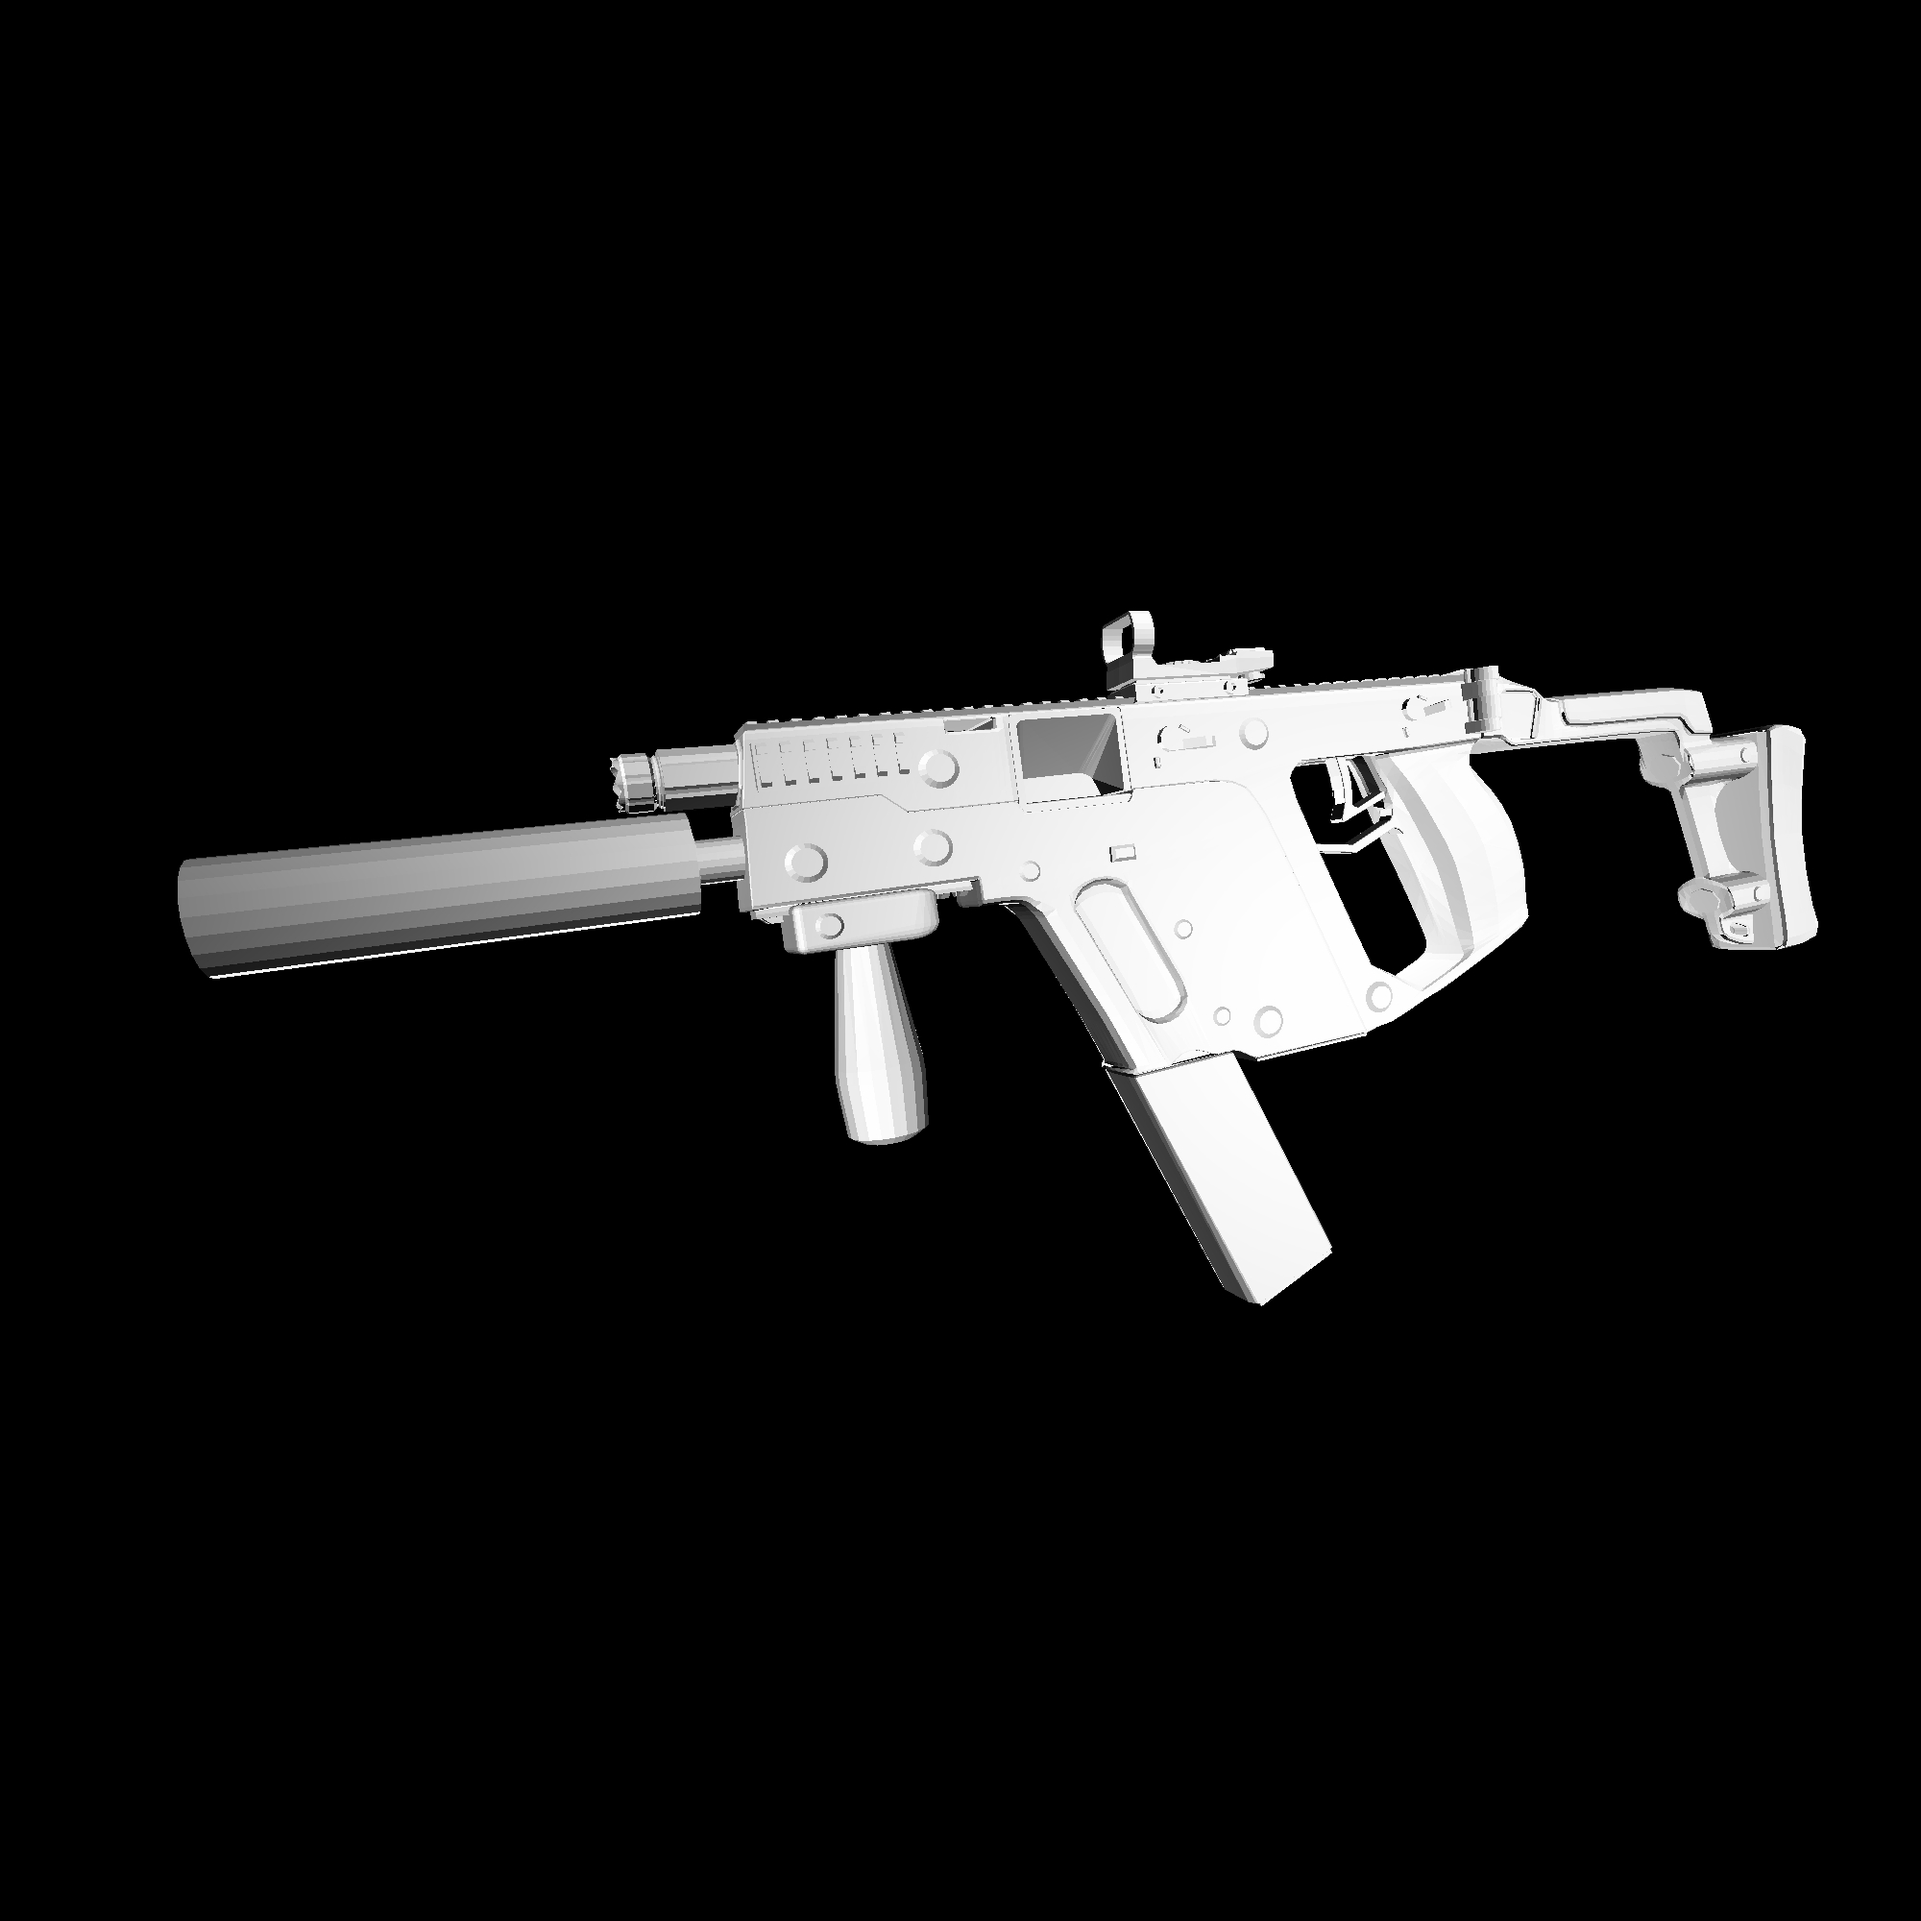
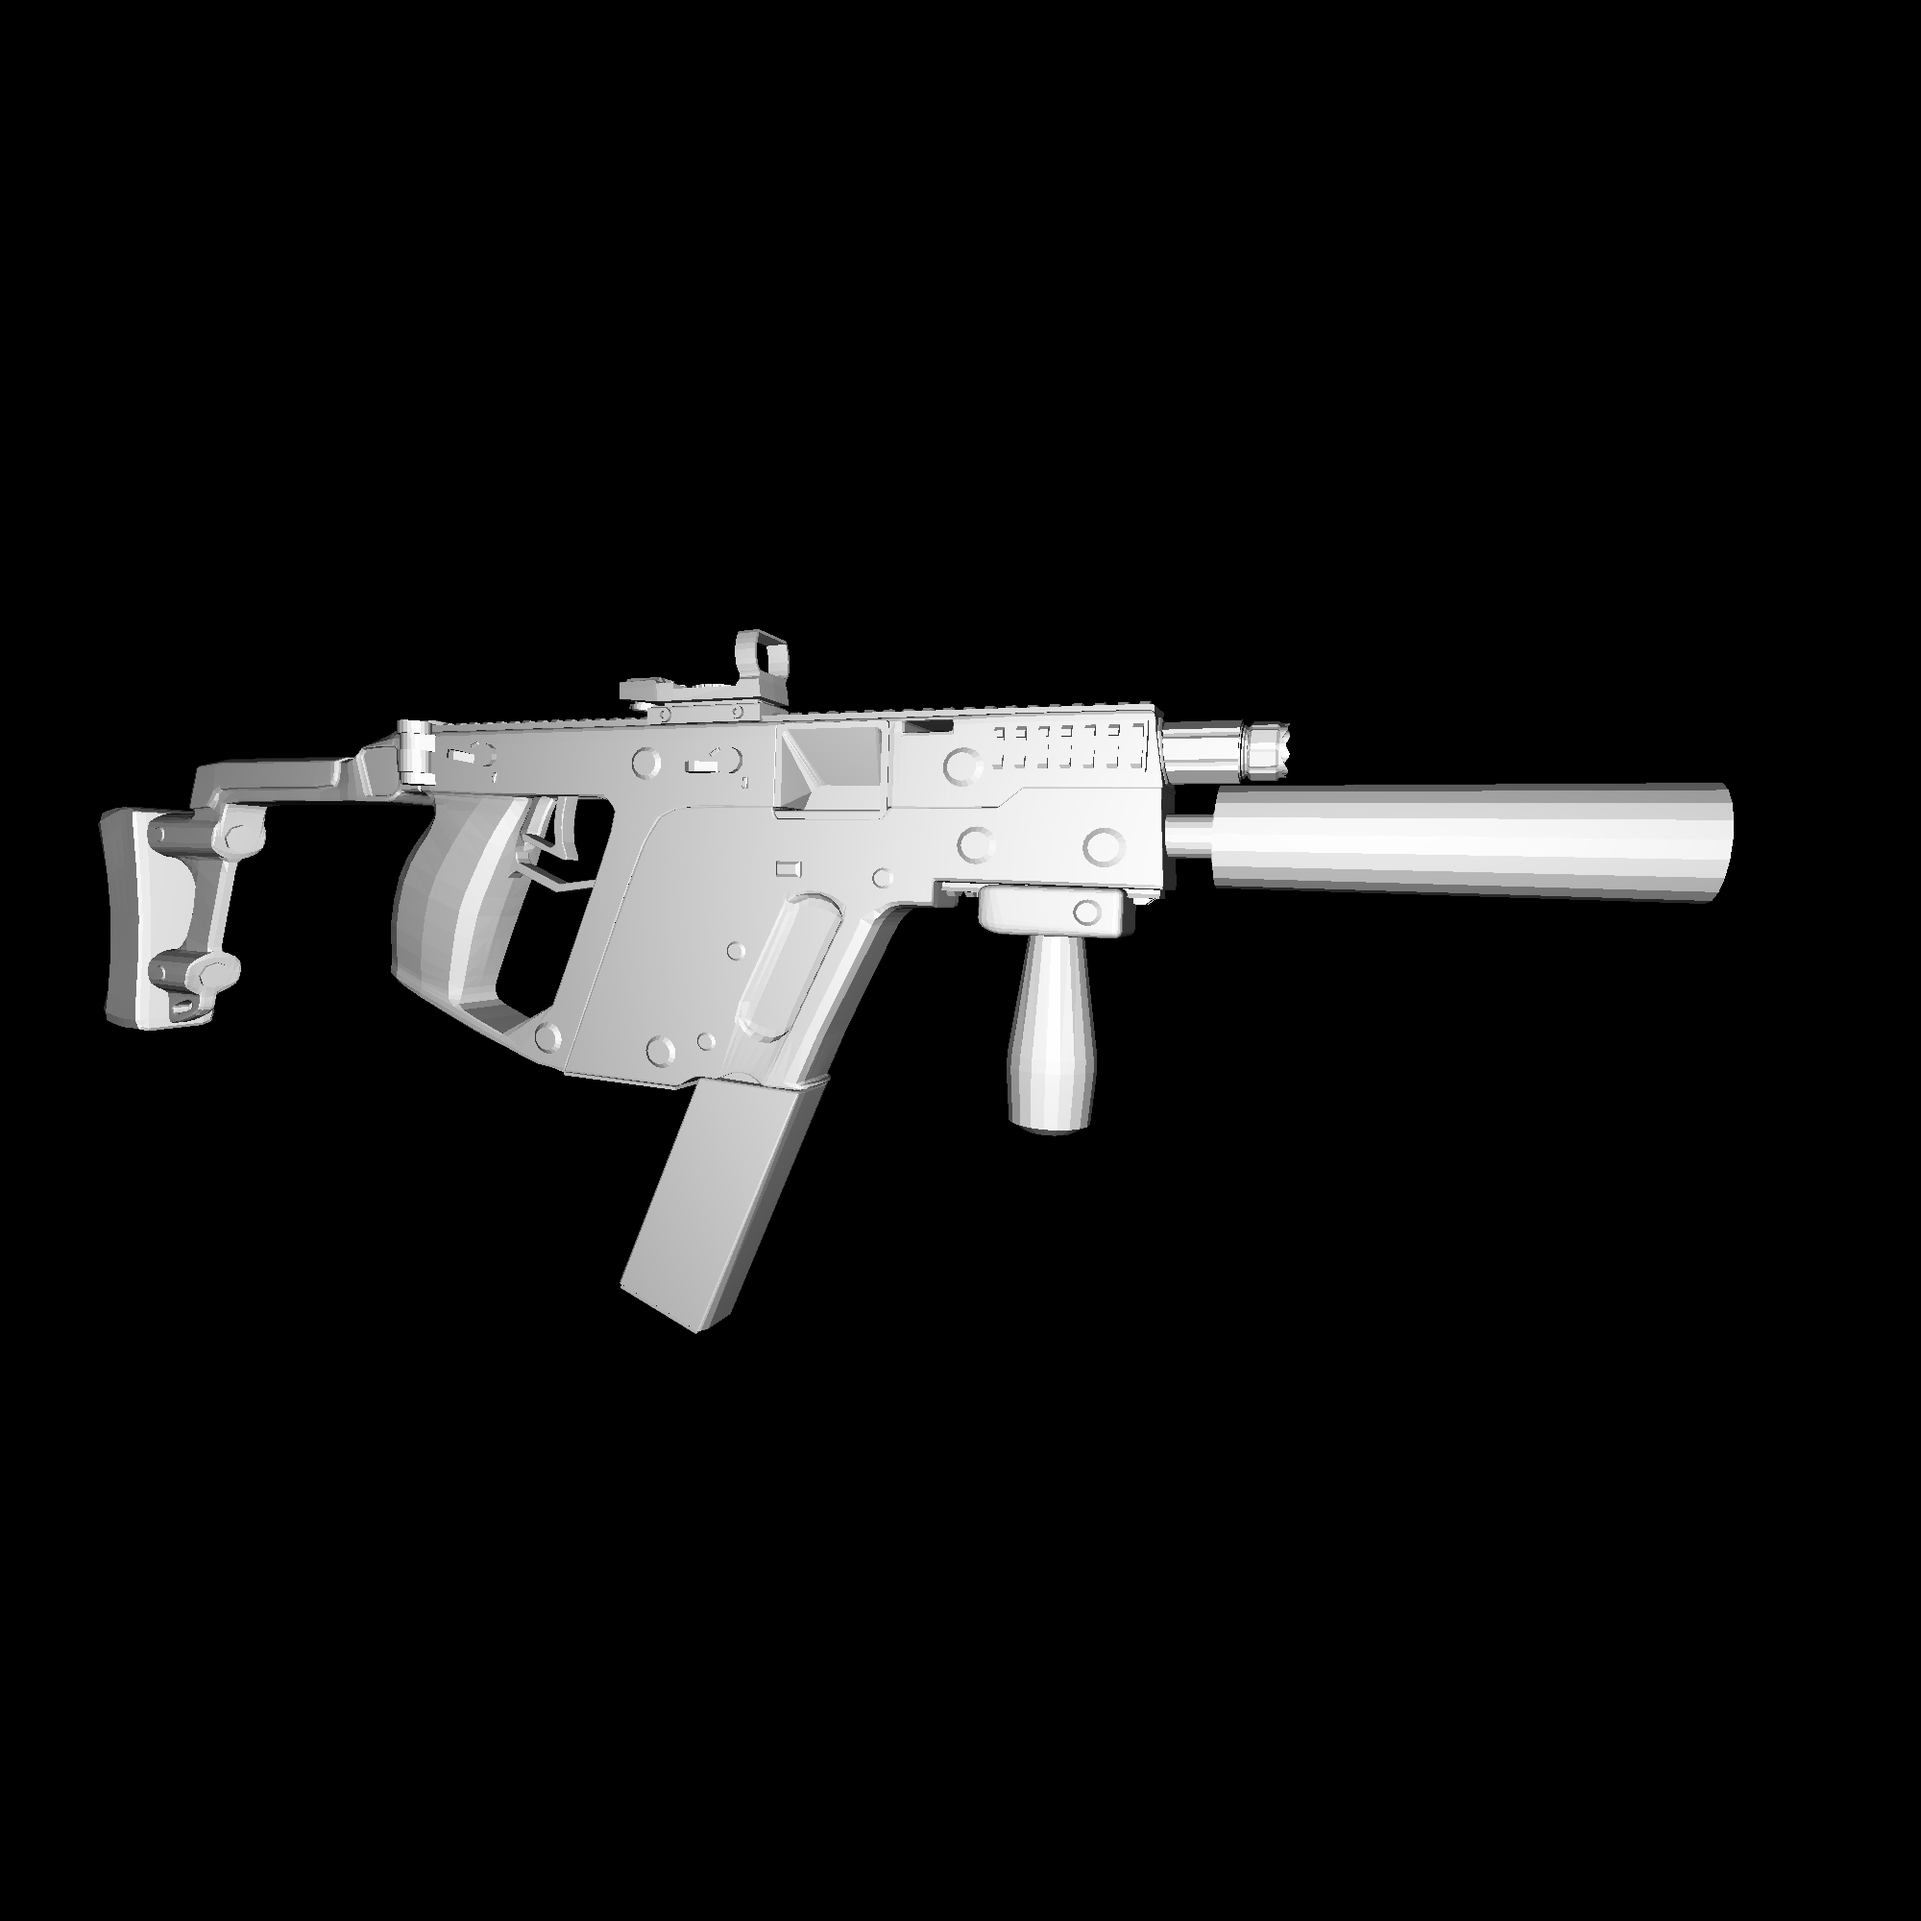
Cleanup and added correct color interpolation

Changed region(s): [[0.031, 0.31, 0.961, 0.713]]

diff --git a/src/rasterizer.c b/src/rasterizer.c
@@ -4,8 +4,10 @@
 
 #include <math.h>
 #include <memory.h>
-#include <limits.h>
 #include "include/rasterizer.h"
+
+#define NEAR_CLIPPING 1
+#define FAR_CLIPPING 10000
 
 /**
  * This functions translates a camera coordinate to raster space.
@@ -34,9 +36,9 @@ static Vector3 cameraToRaster(Vector3* v, unsigned int w, unsigned int h){
  * This functions calculates the shade value of a point based on the angle of the triangle in relation to the camera
  * (using the cross product) and uses bary centric coordinates to get an interpolated color inside the triangle its self.
  *
- * @param z Z component of the pixel
- * @param c Camera positions of the triangle which is used to interpolate the correct value of the shade
- * @param a Area of all the triangle edges
+ * @param z Barycentric z component of the pixel
+ * @param c Triangle in camera space
+ * @param a Barycentric area of each triangle point
  * @return Returns a char which represents the shaded value.
  */
 static unsigned char getPixelShade(float z, Vector3 c[3], const float a[3]) {
@@ -60,25 +62,24 @@ static unsigned char getPixelShade(float z, Vector3 c[3], const float a[3]) {
 }
 
 /**
- * Rasterize a single triangle based and record it
- * into the raster image buffer
+ * Rasterize a single triangle and draw into the frameBuffer
  *
  * @param c Triangle in camera space
  * @param r Triangle in raster space
- * @param zBuffer Pointer to buffer which is used to store depth information of triangles
- * @param rasterWidth Width of the raster image
- * @param rasterHeight Height of the raster image
- * @param rasterImage Raster output image
+ * @param zBuffer Pointer to buffer which stores depth information of triangles
+ * @param frameBuffer Pointer to buffer which stores the raster image
+ * @param width Width of the image in pixels
+ * @param height Height of the image in pixels
  */
 static void rasterizeTriangle(
         Vector3 c[3],
         Vector3 r[3],
         float* zBuffer,
-        unsigned int rasterWidth,
-        unsigned int rasterHeight,
-        unsigned char* rasterImage) {
-    unsigned int w = rasterWidth - 1;
-    unsigned int h = rasterHeight - 1;
+        unsigned char* frameBuffer,
+        unsigned int width,
+        unsigned int height) {
+    unsigned int w = width - 1;
+    unsigned int h = height - 1;
 
     // Calculate triangle bounding box (based on triangle in raster space)
     float rMaxY = MAX3(r[0].y, r[1].y, r[2].y);
@@ -119,7 +120,7 @@ static void rasterizeTriangle(
              *
              * If it does not fall inside of the we continue looping through the box.
              */
-            if (a[0] >= 0 || a[1] >= 0 || a[2] >= 0)
+            if (a[0] < 0 || a[1] < 0 || a[2] < 0)
                 continue;
 
             // Interpolate bary centric coordinate area
@@ -135,11 +136,11 @@ static void rasterizeTriangle(
              * Otherwise if the z component is overlapping the old value we store the new z component and compute the screen pixel
              */
             float z = 1 / (r[0].z * a[0] + r[1].z * a[1] + r[2].z * a[2]);
-            if (z < zBuffer[y * rasterWidth + x])
+            if (z >= zBuffer[y * width + x])
                 continue;
 
-            zBuffer[y * rasterWidth + x] = z;
-            rasterImage[y * rasterWidth + x] = getPixelShade(z, c, a);
+            zBuffer[y * width + x] = z;
+            frameBuffer[y * width + x] = getPixelShade(z, c, a);
         }
     }
 }
@@ -147,30 +148,30 @@ static void rasterizeTriangle(
 void rasterize(
         const Vector3* vertices,
         const unsigned int* indices,
-        unsigned int numIndices,
-        const Matrix4x4* transform,
+        unsigned int indicesCount,
+        const Matrix4x4* modelViewProjection,
         float* zBuffer,
-        unsigned int rasterWidth,
-        unsigned int rasterHeight,
-        unsigned char* rasterImage) {
+        unsigned char* frameBuffer,
+        unsigned int width,
+        unsigned int height) {
 
-    unsigned int size = rasterWidth * rasterHeight;
-    memset(rasterImage, 0, size * sizeof(unsigned char));
-    memset(zBuffer, CHAR_MAX, size * sizeof(float));
+    unsigned int size = width * height;
+    memset(frameBuffer, 0, size * sizeof(unsigned char));
+    for (int i = 0; i < size; ++i) { zBuffer[i] = FAR_CLIPPING; }
 
-    for (int i = 0; i < numIndices; i+=3) {
+    for (int i = 0; i < indicesCount; i+=3) {
         Vector3 c[3] = {
-            transformVec3(vertices + (indices[i]-1), transform),
-            transformVec3(vertices + (indices[i+1]-1), transform),
-            transformVec3(vertices + (indices[i+2]-1), transform)
+            transformVec3(vertices + (indices[i]-1), modelViewProjection),
+            transformVec3(vertices + (indices[i+1]-1), modelViewProjection),
+            transformVec3(vertices + (indices[i+2]-1), modelViewProjection)
         };
 
         Vector3 r[3] = {
-            cameraToRaster(&c[0], rasterWidth, rasterHeight),
-            cameraToRaster(&c[1], rasterWidth, rasterHeight),
-            cameraToRaster(&c[2], rasterWidth, rasterHeight)
+            cameraToRaster(&c[0], width, height),
+            cameraToRaster(&c[1], width, height),
+            cameraToRaster(&c[2], width, height)
         };
 
-        rasterizeTriangle(c, r, zBuffer, rasterWidth, rasterHeight, rasterImage);
+        rasterizeTriangle(c, r, zBuffer, frameBuffer, width, height);
     }
 }

diff --git a/src/include/rasterizer.h b/src/include/rasterizer.h
@@ -7,33 +7,54 @@
 
 #include "utils.h"
 
-/*
- * The nearest value for clipping the view frustum
- */
-#ifndef NEAR_CLIPPING
-    #define NEAR_CLIPPING 1
-#endif
-
 /**
- * Rasterize a list of triangles into a raster image buffer
- * based on the defined width and height
+ * Rasterize a list of triangles to a grayscale image
+ *
+ * This functions makes use of the bounding box algorithm which is optimized
+ * for rasterisation on a GPU, therefore it does not preform (on the CPU).
+ *
+ * To gain a quick overview of the algorithm a pseudo implementation has been defined
+ *
+ * @pseudoCode:
+ *   FOR every triangle in Object
+ *      t ← Call: project triangle to screen space
+
+ *      IF t out of screen bounds
+ *         THEN continue
+ *      ENDIF
+
+ *      TriangleBounds ← Call: Compute t pixel bounds
+ *      FOR every pixel as p in TriangleBounds
+ *         IF p is out of t bounds
+ *            THEN continue
+ *         ENDIF
+
+ *         IF p of t is covered
+ *            THEN continue
+ *         ENDIF
+
+ *         Call: Draw p to screen location
+ *         Call: Store new p depth
+ *     ENDFOR
+ *   ENDFOR
  *
  * @param vertices Vertices to rasterize
  * @param indices Indices which indicate the triangle positions
- * @param numIndices Number of indices
- * @param zBuffer Pointer to buffer which is used to store depth information of triangles
- * @param rasterWidth Width of the raster image
- * @param rasterHeight Height of the raster image
- * @param rasterImage Raster output image
+ * @param indicesCount Count of indices which is contained in the indices array
+ * @param modelViewProjection Matrix which stores the transformation for each vertex in the scene
+ * @param zBuffer Pointer to buffer which stores depth information of triangles
+ * @param frameBuffer Pointer to buffer which stores the raster image
+ * @param width Width of the image in pixels
+ * @param height Height of the image in pixels
  */
 void rasterize(
         const Vector3* vertices,
         const unsigned int* indices,
-        unsigned int numIndices,
-        const Matrix4x4* transform,
+        unsigned int indicesCount,
+        const Matrix4x4* modelViewProjection,
         float* zBuffer,
-        unsigned int rasterWidth,
-        unsigned int rasterHeight,
-        unsigned char* rasterImage);
+        unsigned char* frameBuffer,
+        unsigned int width,
+        unsigned int height);
 
 #endif //RASTERIZER_RASTERIZER_H

diff --git a/main.c b/main.c
@@ -67,16 +67,16 @@ int main() {
     // Allocate raster image on heap
     unsigned char* rasterImage = malloc(width * height * sizeof(unsigned char));
 
-    float angle = 0.4f;
-    Matrix4x4 transform = {
+    float angle = 0;
+    Matrix4x4 modelViewProjection = {
         { cosf(angle), 0, sinf(angle), 0 },
         { 0, 1, 0, 0 },
         { -sinf(angle), 0, cosf(angle), 0 },
-        { 0, 0, 10, 1 }
+        { 0, 0, 0, 1 }
     };
 
     // Rasterize triangles
-    rasterize((Vector3*)obj_data.p_positions, indices, obj_data.face_count * 3, &transform, zBuffer, width, height, rasterImage);
+    rasterize((Vector3*)obj_data.p_positions, indices, obj_data.face_count * 3, &modelViewProjection, zBuffer, rasterImage, width, height);
 
     // Write out result
     stbi_write_jpg("../output.jpg", width, height, 1, rasterImage, width * (int)sizeof(unsigned char));

diff --git a/src/include/utils.h b/src/include/utils.h
@@ -6,11 +6,6 @@
 #define RASTERIZER_UTILS_H
 
 /**
- * Vector with x and y components
- */
-typedef struct { float x, y; } Vector2;
-
-/**
  * Vector with x, y and z components
  */
 typedef struct { float x, y, z; } Vector3;
